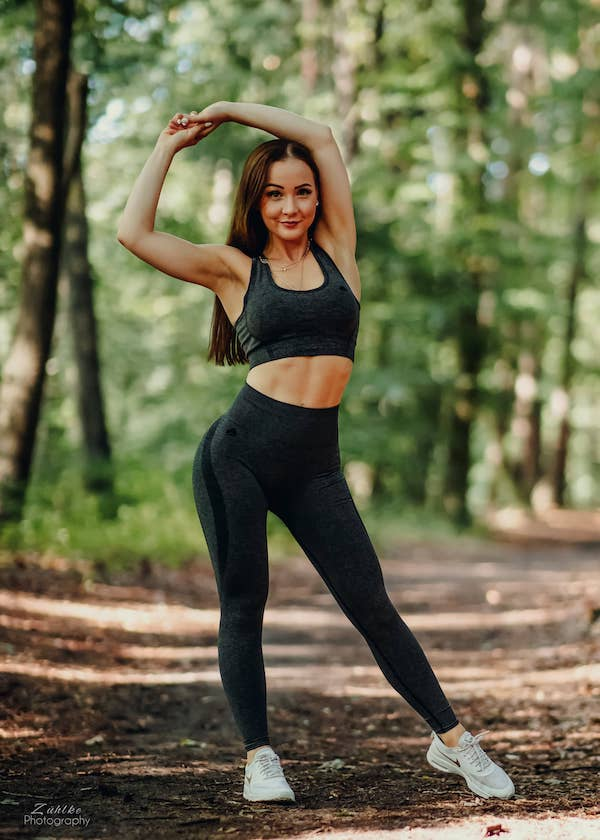
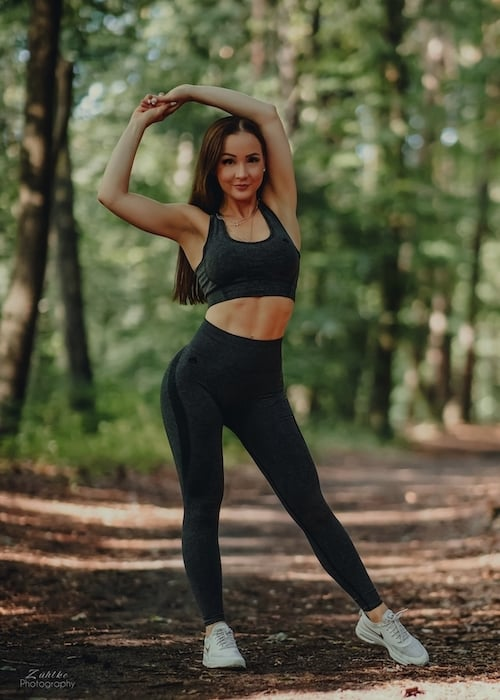
update

diff --git a/index.html b/index.html
@@ -104,8 +104,8 @@
           - Jana
         </p>
         <div class="img-autograph" id="training-info">
-          <img src="./Images/pose-woods-tele-2.jpg" alt="training lehrer" />
-          <h5>Jana Büttner</h5>
+          <img src="./Images/pose-woods-tele.jpg" alt="training lehrer" />
+          <h4>Jana Büttner</h4>
         </div>
       </div>
       <!-- About me section -->
@@ -230,7 +230,11 @@
           </div>
           <div class="training-img-background-container">
             <div class="img-background" id="jugendliche-background">
-              <img class="img-profile" src="./Images/jugendliche.jpg" alt="" />
+              <img
+                class="img-profile"
+                src="./Images/jugendliche.jpg"
+                alt="training für jugendliche"
+              />
             </div>
           </div>
 
@@ -259,7 +263,11 @@
           </div>
           <div class="training-img-background-container">
             <div class="img-background" id="senior-background">
-              <img class="img-profile" src="./Images/senioren.jpg" alt="" />
+              <img
+                class="img-profile"
+                src="./Images/senioren.jpg"
+                alt="training für Senioren"
+              />
             </div>
           </div>
 
@@ -292,7 +300,7 @@
               <img
                 class="img-profile"
                 src="./Images/personaltraining.jpg"
-                alt=""
+                alt="personaltrainer"
               />
             </div>
           </div>
@@ -387,7 +395,7 @@
             ><span
               ><img
                 src="./Images/instagram-logo.png"
-                alt="facebook logo" /></span
+                alt="instagram logo" /></span
             >Instagram</a
           >
         </div>
@@ -398,7 +406,10 @@
         </div>
       </div>
       <div class="contact-svg-background" id="contact">
-        <img src="./Images/contact-curve-background.svg" alt="" />
+        <img
+          src="./Images/contact-curve-background.svg"
+          alt="neustrelitz fitness"
+        />
       </div>
     </div>
     <script src="./index.js"></script>

diff --git a/styles/style.css b/styles/style.css
@@ -280,7 +280,7 @@ html {
   margin: 3vh 0 0;
 }
 
-.personal-text-img-section .img-autograph h5 {
+.personal-text-img-section .img-autograph h4 {
   font-family: "Mr De Haviland", cursive;
   font-size: calc(3rem + 1vw);
   font-weight: 100;

diff --git a/styles/_index.scss b/styles/_index.scss
@@ -217,7 +217,7 @@
     margin: 3vh 0 0;
   }
   .img-autograph {
-    h5 {
+    h4 {
       font-family: $mrdehaviland;
       font-size: $autograph;
       font-weight: 100;
